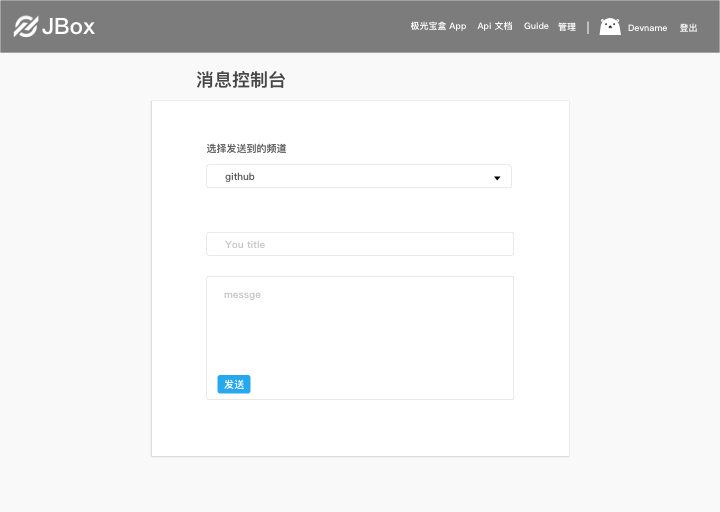
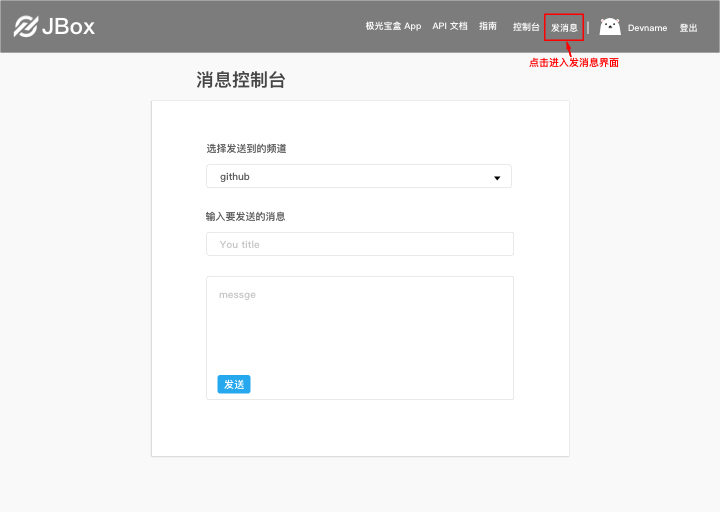
update document and guid page

diff --git a/Server/jbox/templates/guide.html b/Server/jbox/templates/guide.html
@@ -31,17 +31,18 @@
             <div class="subTitle">新建自定义集成</div>
             <img src="/static/images/manageImg.png">
             <hr class="divider">
-            <div class="subTitle">新建集成后会获得二维码和 webhook url</div>
+            <div class="description">新建集成后会获得二维码和 webhook url</div>
             <img src="/static/images/channelPageImage.png">
             <div class="description">需要提供该二维码给客户扫码</div>
             <img src="/static/images/webhookImg.png">
             <div class="description">使用 webhook api调用 send message api 给客户发送消息</div>
             <hr class="divider">
             <div class="subTitle">直接给 Channel 发送消息</div>
-            <img src="/static/images/profile_guide.png">d
-            <div class="description">点击进入开发者详情页面，可以看到所有的 Channel 列表，选择要发送到的 Channel </div>
+            <div class="description">点击进入开发者详情页面，进入发消息界面</div>
             <img src="/static/images/sendtoChannel_guide.png">
             <div class="description">进入消息控制台后，直接发送消息</div>
+            <div class="description">也可以进入开发者详情页面，可以看到所有的 Channel 列表，选择要发送到的 Channel 进入发消息界面</div>
+            <img src="/static/images/profile_guide.png">
         </div>
 
         <div id="appContent" class="content">

diff --git a/Server/jbox/static/css/guide.css b/Server/jbox/static/css/guide.css
@@ -40,8 +40,8 @@
 
 .divider {
     /*margin: 42px 50px 64px 50px;*/
-    margin-left: 20px;
-    margin-right: 20px;
+    margin-left: 40px;
+    margin-right: 40px;
     height: 1px;
     background-color: #c0c0c0;
 }
